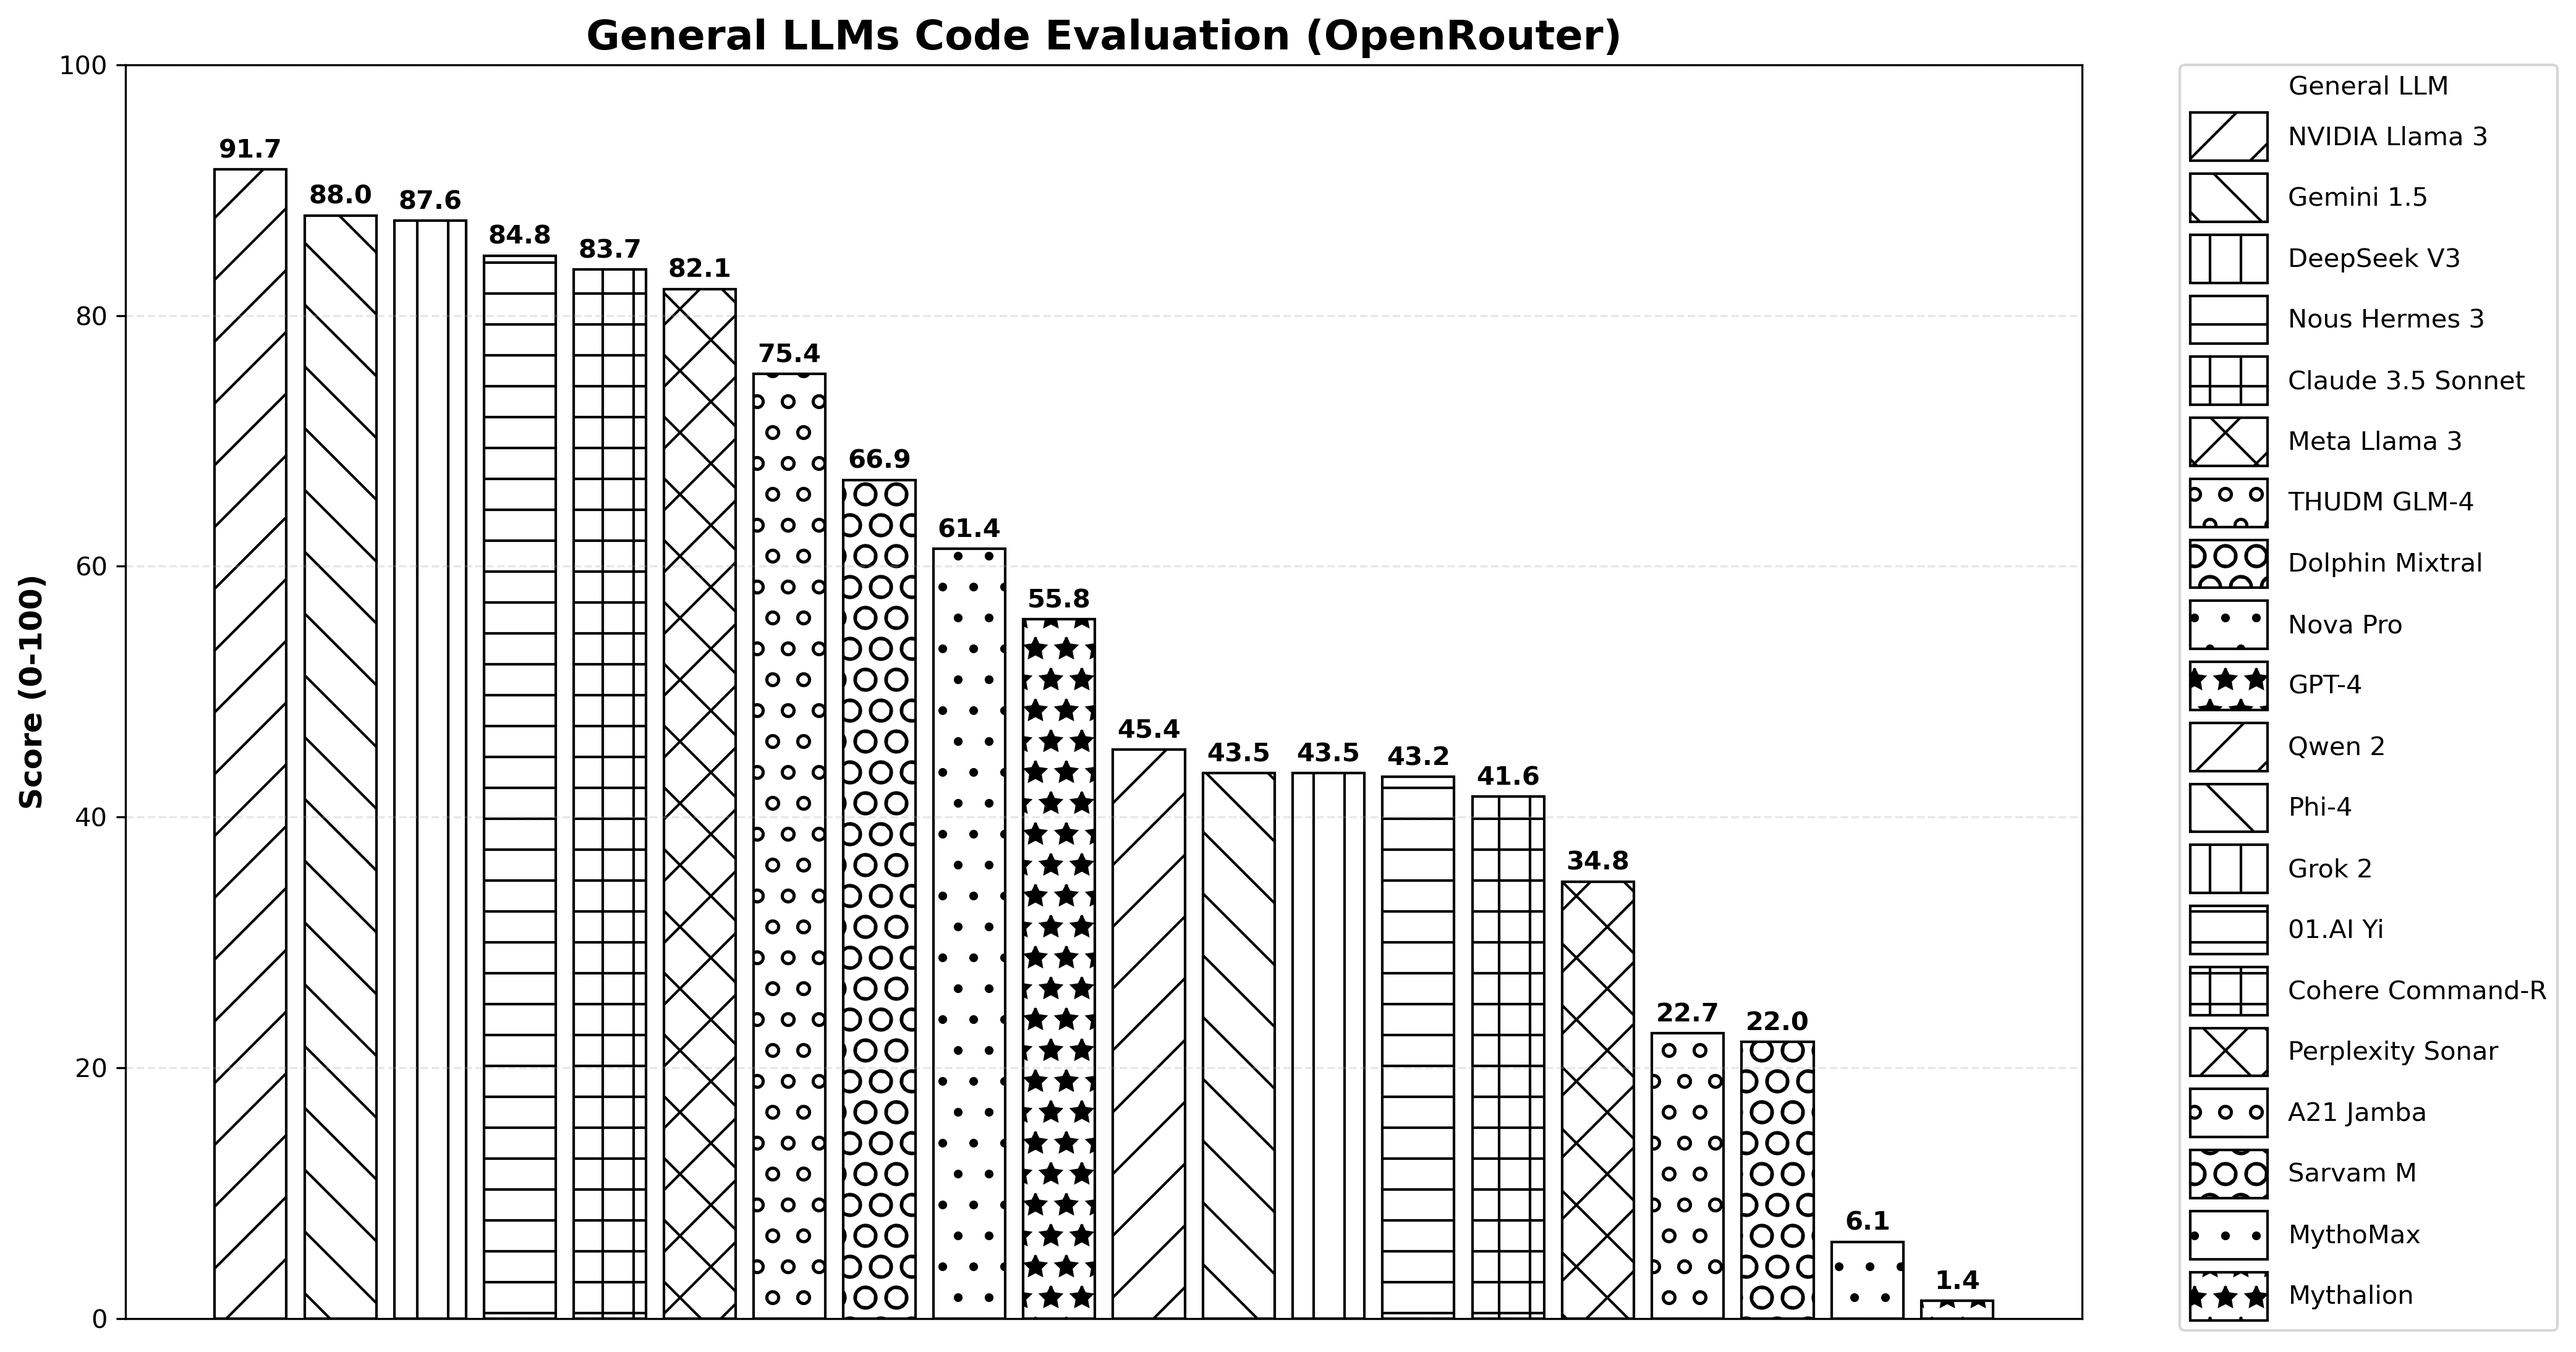
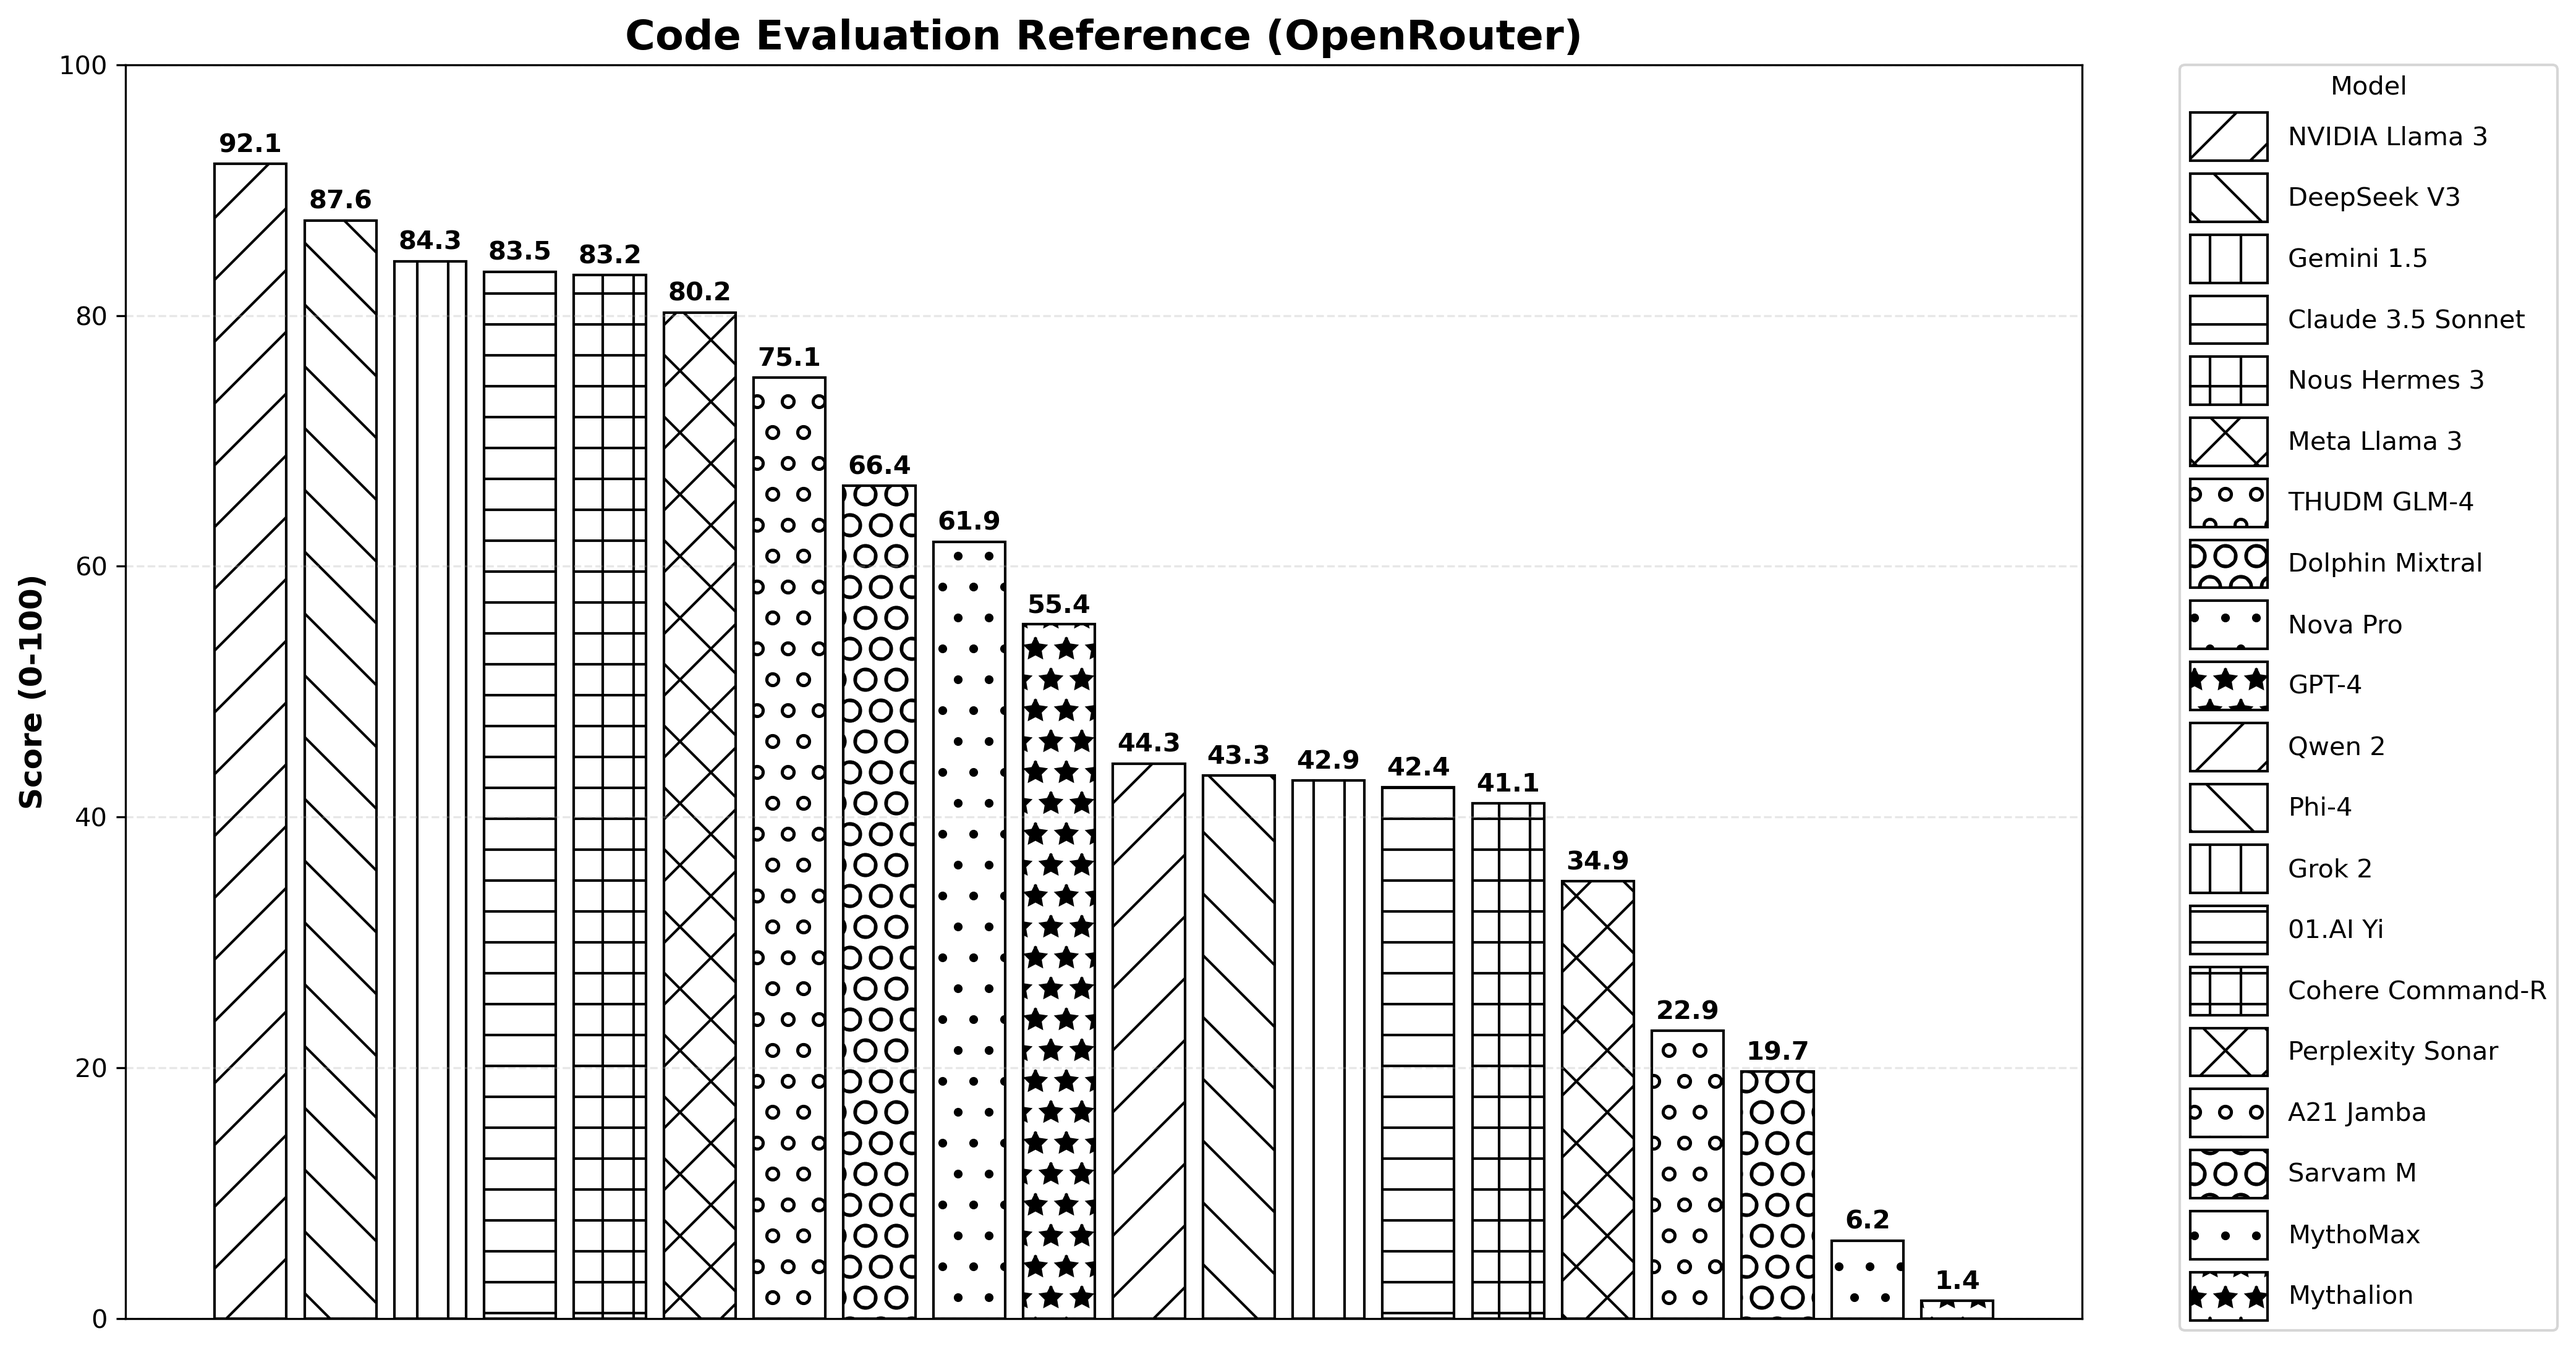
adjust scale

diff --git a/generate_feature_plot.py b/generate_feature_plot.py
@@ -10,19 +10,20 @@ def create_feature_plot():
         # Read the features.txt file
         df = pd.read_csv('features.txt', sep='\t')
         
-        # Define feature weights (positive = good, negative = bad)
+        # Define feature weights (positive = good, negative features award points when absent)
+        # Total: 100 points
         feature_weights = {
-            'Open Source': 8,
-            'Self-hostable': 7,
-            'LLM Agnostic': 6,
-            'Tab Completion': 5,
-            'Chat': 4,
-            'Modify Files': 4,
-            'Run Commands': 3,
-            'Select Context': 3,
-            'Multi-IDE': 2,
-            'Data Retained': -5,
-            'Data Re-used': -8
+            'Open Source': 15,      # 8 * 1.82 ≈ 15
+            'Self-hostable': 13,    # 7 * 1.82 ≈ 13
+            'LLM Agnostic': 11,     # 6 * 1.82 ≈ 11
+            'Tab Completion': 9,    # 5 * 1.82 ≈ 9
+            'Chat': 7,              # 4 * 1.82 ≈ 7
+            'Modify Files': 7,      # 4 * 1.82 ≈ 7
+            'Run Commands': 5,      # 3 * 1.82 ≈ 5
+            'Select Context': 5,    # 3 * 1.82 ≈ 5
+            'Multi-IDE': 4,         # 2 * 1.82 ≈ 4
+            'Data Retained': 9,     # 5 * 1.82 ≈ 9 (awarded when "No")
+            'Data Re-used': 15      # 8 * 1.82 ≈ 15 (awarded when "No")
         }
         
         # Calculate scores for each tool
@@ -34,8 +35,15 @@ def create_feature_plot():
                 continue
             score = 0
             for feature, weight in feature_weights.items():
-                if feature in row and row[feature] == 'Yes':
-                    score += weight
+                if feature in row:
+                    if feature in ['Data Retained', 'Data Re-used']:
+                        # Award points when negative features are absent
+                        if row[feature] == 'No':
+                            score += weight
+                    else:
+                        # Award points when positive features are present
+                        if row[feature] == 'Yes':
+                            score += weight
             # Minimum score is zero
             score = max(score, 0)
             tool_scores[TECHNICAL_TO_DISPLAY[tool_name]] = score
@@ -53,7 +61,7 @@ def create_feature_plot():
         bars = plt.bar(tools, scores, color=colors, alpha=0.8)
         
         # Customize the plot
-        plt.title('Comparative analysis', fontsize=16, fontweight='bold')
+        plt.title('Comparative Analysis', fontsize=16, fontweight='bold')
         plt.xlabel('')
         plt.ylabel('Feature Score', fontsize=12, fontweight='bold')
         plt.xticks([])  # Remove names from below the plot

diff --git a/generate_plot.py b/generate_plot.py
@@ -129,7 +129,7 @@ def create_plot(scores):
             legend_handles.append(
                 plt.Rectangle((0,0), 2, 1.2, facecolor='white', edgecolor='black', hatch=patterns[i % len(patterns)])
             )
-        plt.title('General LLMs Code Evaluation (OpenRouter)', fontsize=16, fontweight='bold')
+        plt.title('Code Evaluation Reference (OpenRouter)', fontsize=16, fontweight='bold')
         plt.xlabel('')
         plt.ylabel('Score (0-100)', fontsize=12, fontweight='bold')
         plt.xticks([])
@@ -140,7 +140,7 @@ def create_plot(scores):
             plt.text(rect.get_x() + rect.get_width()/2, rect.get_height() + 0.5, 
                      f"{value:.1f}", ha='center', va='bottom', fontweight='bold')
         plt.legend(
-            legend_handles, names, title="General LLM",
+            legend_handles, names, title="Model",
             bbox_to_anchor=(1.05, 1), loc='upper left',
             handleheight=2.5, handlelength=3, borderaxespad=0.
         )
